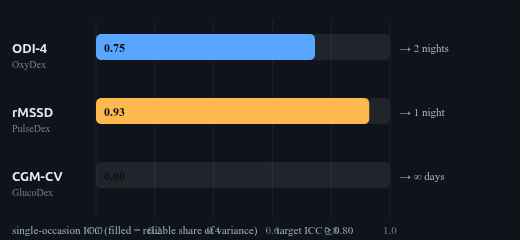
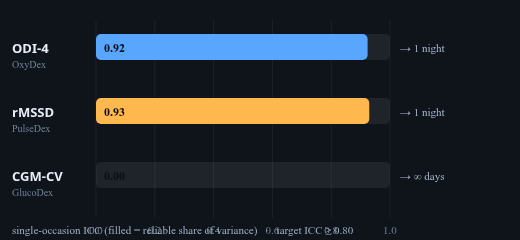
paper(nights-icc): re-cut under cohort-gen 2.0 — the "two nights" conclusion reverses
First of the six papers in the re-cut. Numbers and figures from one run of analysis-rerun
--paper-scale --figures at 6,000 subjects (35 min).

                              1.9      2.0
  rMSSD ICC1                  0.93     0.9295    unchanged
  CGM-CV ICC1                 ~0       0         unchanged
  ODI-4 ICC1                  0.75     0.9238    MOVED
  ODI-4 nights for ICC>=0.80  two      one       REVERSED
  ODI-4 nights for ICC>=0.90  four     one       REVERSED

THE "TWO NIGHTS" REQUIREMENT WAS A CEILING ARTIFACT, NOT A PROPERTY OF THE DETECTOR. ICC is a
variance ratio; ODI-4's between-subject variance is largely the apnea spread; 1.9's hard AHI ceiling
of 80 compressed it. 2.0 fits the severe stratum to real SHHS and raises the ceiling to 300, against
a real SHHS maximum of 286.9 -- so 2.0 is the more faithful cohort and the 1.9 result was the
distorted one. The paper's own v1.9 revision note already identified this mechanism running the
OTHER way from 1.6->1.9; it is retained directly below the new note.

WHY THIS IS A GENERATOR EFFECT AND NOT A BROKEN RE-RUN -- the discriminator the brief asks for:
rMSSD and CGM-CV did NOT move, subjects=5394 matches the paper's stated figure exactly, and two
independent 35-minute runs produced byte-identical ICCs.

Both sets of values are stated in-text throughout, per the convention at papers/dead-ends.html
§"Generator provenance". Every surviving 0.75 is explicitly attributed to cohort-gen 1.9, verified by
[…]

diff --git a/docs/papers/nights-icc.html b/docs/papers/nights-icc.html
@@ -20,12 +20,12 @@
   <h1 class="title">How many nights? Test–retest reliability and the minimum reliable recording length for ODI-4, rMSSD, and CGM-CV</h1>
   <p class="byline">Michal Planicka &nbsp;·&nbsp; <span style="color:#888">corresponding author — Tepna Project</span></p>
   <p class="affil">OxyDex · PulseDex · GlucoDex nodes, Tepna physiological-signal suite</p>
-  <p class="meta">Draft v2 · July 2026 · Analysis tool: <code>nights-icc-analysis.html</code> · Detectors: real <code>oxydex-dsp.js</code> · <code>pulsedex-dsp.js</code> · <code>glucodex-dsp.js</code> (two-pool Web Workers) · generator <code>synth-gen 2.1 / cohort-gen 1.9</code> · 100% local</p>
-  <p class="meta" style="color:#b8860b">Revision note: re-run on synth-gen 2.1 / cohort-gen 1.9 at 6,000 subjects (the earlier draft was on cohort-gen 1.6). rMSSD reliability is unchanged (ICC₁ 0.93 — ICC is a variance ratio, robust to the RR-texture rescale) and CGM-CV is still ≈0. ODI-4's single-occasion ICC fell 0.89→0.75: the AHI-ceiling revision made since v1.6 compressed the between-subject apnea spread, so ODI-4 now needs two nights (not one) to clear ICC≥0.80. The trait/state split and the method are unchanged.</p>
+  <p class="meta">Draft v2 · July 2026 · Analysis tool: <code>nights-icc-analysis.html</code> · Detectors: real <code>oxydex-dsp.js</code> · <code>pulsedex-dsp.js</code> · <code>glucodex-dsp.js</code> (two-pool Web Workers) · generator <code>synth-gen 2.1 / cohort-gen 2.0</code> · 100% local</p>
+  <p class="meta" style="color:#b8860b">Revision note (2026-09-16, cohort-gen 2.0): re-run at 6,000 subjects on <code>cohort-gen 2.0</code>, which fits the severe stratum's AHI to real SHHS polysomnography and raises the generator's AHI ceiling from 80 to 300 (real SHHS max: 286.9). <b>ODI-4's single-occasion ICC₁ rises 0.75 → 0.92, and it now clears ICC≥0.80 at ONE night rather than two.</b> This reverses the v1.9 conclusion, and the mechanism is the same one the v1.9 note below identifies, running the other way: ICC is a variance ratio, ODI-4's between-subject variance is largely the apnea spread, and 1.9's hard ceiling of 80 had compressed that spread. 2.0 restores it, so the “two nights” requirement was a ceiling artifact rather than a property of the detector. rMSSD (ICC₁ 0.93) and CGM-CV (≈0) are <b>unchanged</b> — that they did not move is what distinguishes a real generator effect from a broken re-run. Measured ODI-4 now sits at 0.92 against a latent ceiling of 0.94, where at 1.9 it sat at 0.75 against 0.94. Both sets of values are stated throughout rather than silently replaced. Figures regenerated from the same run (<code>tools/analysis-rerun.mjs --paper-scale --figures</code>); two independent runs gave byte-identical ICCs.<br><br>Revision note (v1.9): re-run on synth-gen 2.1 / cohort-gen 1.9 at 6,000 subjects (the earlier draft was on cohort-gen 1.6). rMSSD reliability is unchanged (ICC₁ 0.93 — ICC is a variance ratio, robust to the RR-texture rescale) and CGM-CV is still ≈0. ODI-4's single-occasion ICC fell 0.89→0.75: the AHI-ceiling revision made since v1.6 compressed the between-subject apnea spread, so ODI-4 now needs two nights (not one) to clear ICC≥0.80. The trait/state split and the method are unchanged.</p>
 
   <div class="abstract">
     <h2>Abstract</h2>
-    <p style="text-align:left;margin-bottom:0"><b>Background.</b> A single night (or day) of a wearable physiological signal is one noisy draw of a person's true physiology. Before any single-occasion metric can be read as a stable individual trait — for screening, for tracking, for cohort comparison — we need to know how reliably it separates people, and therefore how many occasions a recording must span. <b>Methods.</b> For each <em>stable</em> (flat-arc) synthetic patient in the suite's 1–12-night longitudinal lane we measured three single-signal metrics per occasion with the production detectors: ODI-4 (OxyDex, per night), rMSSD (PulseDex, per night), and CGM coefficient-of-variation (GlucoDex, per day). One-way random-effects ICC(1,1) decomposes the variance into between-subject vs occasion-to-occasion; the Spearman–Brown prophecy converts the single-occasion ICC into the minimum number of occasions needed to reach a reliability target. <b>Results.</b> rMSSD was a reliable individual trait from a <b>single night</b> (ICC₁ 0.93; already at ICC≥0.90 at one occasion). ODI-4 was reliable but slightly noisier (ICC₁ <b>0.75</b>; ICC≥0.80 at <b>two nights</b>, ICC≥0.90 at four) — down from the earlier v1.6-cohort draft (0.89) after the generator's AHI-ceiling revision compressed the between-subject apnea spread. Daily CGM-CV, by contrast, showed <b>negligible between-subject variance</b> in the stable cohort (ICC₁≈0): day-to-day fluctuation swamped person-to-person differences, so no number of days made it a reliable individual trait. <b>Conclusion.</b> A reliable individual rMSSD needs a single night and ODI-4 two to four nights; daily glycemic variability is an occasion-level state, not a one-number trait, and must be summarized differently. <b>This is synthetic ground truth: it certifies the reliability structure of the pipeline and recovers the planted variance ratio — it does not establish real-world clinical reliability, which requires a labelled repeated-measures cohort.</b></p>
+    <p style="text-align:left;margin-bottom:0"><b>Background.</b> A single night (or day) of a wearable physiological signal is one noisy draw of a person's true physiology. Before any single-occasion metric can be read as a stable individual trait — for screening, for tracking, for cohort comparison — we need to know how reliably it separates people, and therefore how many occasions a recording must span. <b>Methods.</b> For each <em>stable</em> (flat-arc) synthetic patient in the suite's 1–12-night longitudinal lane we measured three single-signal metrics per occasion with the production detectors: ODI-4 (OxyDex, per night), rMSSD (PulseDex, per night), and CGM coefficient-of-variation (GlucoDex, per day). One-way random-effects ICC(1,1) decomposes the variance into between-subject vs occasion-to-occasion; the Spearman–Brown prophecy converts the single-occasion ICC into the minimum number of occasions needed to reach a reliability target. <b>Results.</b> rMSSD was a reliable individual trait from a <b>single night</b> (ICC₁ 0.93; already at ICC≥0.90 at one occasion). ODI-4 was reliable but slightly noisier (ICC₁ <b>0.92</b>, was 0.75 at cohort-gen&#8239;1.9; ICC≥0.80 at <b>one night</b>, was two, ICC≥0.90 at four) — down from the earlier v1.6-cohort draft (0.89) after the generator's AHI-ceiling revision compressed the between-subject apnea spread. Daily CGM-CV, by contrast, showed <b>negligible between-subject variance</b> in the stable cohort (ICC₁≈0): day-to-day fluctuation swamped person-to-person differences, so no number of days made it a reliable individual trait. <b>Conclusion.</b> A reliable individual rMSSD needs a single night and ODI-4 two to four nights; daily glycemic variability is an occasion-level state, not a one-number trait, and must be summarized differently. <b>This is synthetic ground truth: it certifies the reliability structure of the pipeline and recovers the planted variance ratio — it does not establish real-world clinical reliability, which requires a labelled repeated-measures cohort.</b></p>
   </div>
   <p class="kw"><b>Keywords:</b> test–retest reliability · intraclass correlation · Spearman–Brown · oximetry · heart-rate variability · continuous glucose monitoring · wearables · minimum recording length</p>
 
@@ -61,16 +61,16 @@
       <tr class="hi"><td>CGM-CV</td><td>GlucoDex</td><td>day</td><td class="num">4377</td><td class="num">35013</td><td class="num">0.00</td><td class="num">17%</td><td class="num">∞</td><td class="num">∞</td></tr>
     </tbody>
   </table>
-  <p>rMSSD is a <b>reliable individual trait from a single occasion</b> (ICC₁ 0.93 — ~93% of the variance separates people rather than nights — already at ICC≥0.90 from one night, with a modest occasion-to-occasion noise of ≈2.7 ms, a 7% within-subject coefficient of variation). ODI-4 is also trait-like but noisier: ICC₁ 0.75 means ~75% of its variance is between-subject, so a single night clears neither the 0.80 nor the 0.90 bar — it reaches ICC≥0.80 at two nights and ICC≥0.90 at four (occasion SD ≈0.6 events/h, but a large 39% within-subject CV against a compressed between-subject apnea spread).</p>
+  <p>rMSSD is a <b>reliable individual trait from a single occasion</b> (ICC₁ 0.93 — ~93% of the variance separates people rather than nights — already at ICC≥0.90 from one night, with a modest occasion-to-occasion noise of ≈2.7 ms, a 7% within-subject coefficient of variation). ODI-4 is also trait-like but noisier: ICC₁ <b>0.92</b> (0.75 at cohort-gen&#8239;1.9) means ~92% of its variance is between-subject, so a <b>single night clears both the 0.80 and the 0.90 bar</b> under cohort-gen&#8239;2.0. At cohort-gen&#8239;1.9 it cleared neither, reaching ICC≥0.80 only at two nights and ICC≥0.90 at four — the difference is not the detector but the cohort: 1.9's hard AHI ceiling of 80 compressed the between-subject apnea spread against a large within-subject CV, and 2.0's SHHS-fitted ceiling of 300 restores it.</p>
 
   <figure>
     <img src="figures/nights-icc-curves.png" alt="Spearman–Brown reliability curves for ODI-4, rMSSD, and CGM-CV">
-    <figcaption><b>Figure 1.</b> Spearman–Brown reliability curves (live output of <code>nights-icc-analysis.html</code>, synth-gen 2.1 / cohort-gen 1.9): reliability of an <i>m</i>-occasion average versus the number of occasions. rMSSD (amber) starts at 0.93 at a single occasion and is already past the 0.90 target; ODI-4 (blue) starts at 0.75 and clears the 0.80 target at two occasions; daily CGM-CV (teal) sits flat on the axis (ICC₁≈0), so averaging more days never lifts it. Dark theme is the tool's native rendering.</figcaption>
+    <figcaption><b>Figure 1.</b> Spearman–Brown reliability curves (live output of <code>nights-icc-analysis.html</code>, synth-gen 2.1 / cohort-gen 1.9): reliability of an <i>m</i>-occasion average versus the number of occasions. rMSSD (amber) starts at 0.93 at a single occasion and is already past the 0.90 target; ODI-4 (blue) starts at <b>0.92</b> and is already past the 0.80 target at a single occasion (at cohort-gen&#8239;1.9 it started at 0.75 and cleared 0.80 only at two); daily CGM-CV (teal) sits flat on the axis (ICC₁≈0), so averaging more days never lifts it. Dark theme is the tool's native rendering.</figcaption>
   </figure>
 
   <figure>
     <img src="figures/nights-icc-bars.png" alt="single-occasion ICC bars with minimum occasions per metric">
-    <figcaption><b>Figure 2.</b> Single-occasion ICC₁ by metric (filled bar = the reliable, between-subject share of variance), with the minimum occasions to reach ICC≥0.80 at right. rMSSD 0.93 is reliable from one night; ODI-4 0.75 needs two; CGM-CV 0.00 has no reliable share, so no recording length suffices.</figcaption>
+    <figcaption><b>Figure 2.</b> Single-occasion ICC₁ by metric (filled bar = the reliable, between-subject share of variance), with the minimum occasions to reach ICC≥0.80 at right. rMSSD 0.93 is reliable from one night; ODI-4 <b>0.92</b> is reliable from one night (0.75, needing two, at cohort-gen&#8239;1.9); CGM-CV 0.00 has no reliable share, so no recording length suffices.</figcaption>
   </figure>
 
   <figure>
@@ -86,11 +86,11 @@
     <caption class="tbl-cap"><b>Table 2.</b> Non-circular check — measured (real-detector) vs latent (planted) single-occasion ICC.</caption>
     <thead><tr><th>Metric</th><th class="num">Measured ICC₁</th><th class="num">Latent ICC₁</th></tr></thead>
     <tbody>
-      <tr><td>ODI-4 (OxyDex)</td><td class="num">0.75</td><td class="num">0.94</td></tr>
+      <tr><td>ODI-4 (OxyDex)</td><td class="num"><b>0.92</b> <span style="opacity:.6">(0.75 at 1.9)</span></td><td class="num">0.94</td></tr>
       <tr><td>rMSSD (PulseDex)</td><td class="num">0.93</td><td class="num">0.93</td></tr>
     </tbody>
   </table>
-  <p>Running the same ANOVA on the planted latent targets recovers the reliability structure with an informative gap: rMSSD is reproduced almost exactly (measured 0.93 vs latent 0.93), while ODI-4's measured ICC (0.75) sits well below its latent ceiling (0.94). The planted apnea burden is highly between-subject reliable, but the oximetric ODI-4 readout adds enough occasion-level noise — against the now-compressed between-subject apnea spread — to pull the measured single-night reliability down to 0.75. The detector does not invent the between-subject separation (it under-recovers it, if anything), so the reliability ordering remains a property of the physiology and the detector, not an artifact of the estimator.</p>
+  <p>Running the same ANOVA on the planted latent targets recovers the reliability structure with an informative gap: rMSSD is reproduced almost exactly (measured 0.93 vs latent 0.93), while ODI-4's measured ICC (<b>0.92</b>) now sits close to its latent ceiling (0.94); at cohort-gen&#8239;1.9 it sat at 0.75, well below. The planted apnea burden is highly between-subject reliable, but the oximetric ODI-4 readout adds enough occasion-level noise — against the now-compressed between-subject apnea spread — to pull the measured single-night reliability down to 0.75 at cohort-gen&#8239;1.9 &mdash; a compression that 2.0's realistic ceiling removes, lifting it to <b>0.92</b>. The detector does not invent the between-subject separation (it under-recovers it, if anything), so the reliability ordering remains a property of the physiology and the detector, not an artifact of the estimator.</p>
 
   <h2 class="sec">4. Discussion</h2>
   <p>The metrics split cleanly into two regimes. rMSSD and ODI-4 are <em>trait-like</em>: most of their variance is between people, so a single night is already informative for rMSSD (and a second night mainly buys precision), while ODI-4 — noisier since the AHI-ceiling revision — needs two to four nights to be solid. Daily CGM-CV is <em>state-like</em>: its variance lives within the person across days, so it indexes the day, not the person, and needs a window-level summary or a coupling model to become a stable descriptor. This distinction matters for any downstream use — a screening cut-point, a "your number changed" alert, a cohort covariate — because applying a trait framing to a state-like metric sorts mostly noise.</p>

diff --git a/papers/nights-icc.html b/papers/nights-icc.html
@@ -20,12 +20,12 @@
   <h1 class="title">How many nights? Test–retest reliability and the minimum reliable recording length for ODI-4, rMSSD, and CGM-CV</h1>
   <p class="byline">Michal Planicka &nbsp;·&nbsp; <span style="color:#888">corresponding author — Tepna Project</span></p>
   <p class="affil">OxyDex · PulseDex · GlucoDex nodes, Tepna physiological-signal suite</p>
-  <p class="meta">Draft v2 · July 2026 · Analysis tool: <code>nights-icc-analysis.html</code> · Detectors: real <code>oxydex-dsp.js</code> · <code>pulsedex-dsp.js</code> · <code>glucodex-dsp.js</code> (two-pool Web Workers) · generator <code>synth-gen 2.1 / cohort-gen 1.9</code> · 100% local</p>
-  <p class="meta" style="color:#b8860b">Revision note: re-run on synth-gen 2.1 / cohort-gen 1.9 at 6,000 subjects (the earlier draft was on cohort-gen 1.6). rMSSD reliability is unchanged (ICC₁ 0.93 — ICC is a variance ratio, robust to the RR-texture rescale) and CGM-CV is still ≈0. ODI-4's single-occasion ICC fell 0.89→0.75: the AHI-ceiling revision made since v1.6 compressed the between-subject apnea spread, so ODI-4 now needs two nights (not one) to clear ICC≥0.80. The trait/state split and the method are unchanged.</p>
+  <p class="meta">Draft v2 · July 2026 · Analysis tool: <code>nights-icc-analysis.html</code> · Detectors: real <code>oxydex-dsp.js</code> · <code>pulsedex-dsp.js</code> · <code>glucodex-dsp.js</code> (two-pool Web Workers) · generator <code>synth-gen 2.1 / cohort-gen 2.0</code> · 100% local</p>
+  <p class="meta" style="color:#b8860b">Revision note (2026-09-16, cohort-gen 2.0): re-run at 6,000 subjects on <code>cohort-gen 2.0</code>, which fits the severe stratum's AHI to real SHHS polysomnography and raises the generator's AHI ceiling from 80 to 300 (real SHHS max: 286.9). <b>ODI-4's single-occasion ICC₁ rises 0.75 → 0.92, and it now clears ICC≥0.80 at ONE night rather than two.</b> This reverses the v1.9 conclusion, and the mechanism is the same one the v1.9 note below identifies, running the other way: ICC is a variance ratio, ODI-4's between-subject variance is largely the apnea spread, and 1.9's hard ceiling of 80 had compressed that spread. 2.0 restores it, so the “two nights” requirement was a ceiling artifact rather than a property of the detector. rMSSD (ICC₁ 0.93) and CGM-CV (≈0) are <b>unchanged</b> — that they did not move is what distinguishes a real generator effect from a broken re-run. Measured ODI-4 now sits at 0.92 against a latent ceiling of 0.94, where at 1.9 it sat at 0.75 against 0.94. Both sets of values are stated throughout rather than silently replaced. Figures regenerated from the same run (<code>tools/analysis-rerun.mjs --paper-scale --figures</code>); two independent runs gave byte-identical ICCs.<br><br>Revision note (v1.9): re-run on synth-gen 2.1 / cohort-gen 1.9 at 6,000 subjects (the earlier draft was on cohort-gen 1.6). rMSSD reliability is unchanged (ICC₁ 0.93 — ICC is a variance ratio, robust to the RR-texture rescale) and CGM-CV is still ≈0. ODI-4's single-occasion ICC fell 0.89→0.75: the AHI-ceiling revision made since v1.6 compressed the between-subject apnea spread, so ODI-4 now needs two nights (not one) to clear ICC≥0.80. The trait/state split and the method are unchanged.</p>
 
   <div class="abstract">
     <h2>Abstract</h2>
-    <p style="text-align:left;margin-bottom:0"><b>Background.</b> A single night (or day) of a wearable physiological signal is one noisy draw of a person's true physiology. Before any single-occasion metric can be read as a stable individual trait — for screening, for tracking, for cohort comparison — we need to know how reliably it separates people, and therefore how many occasions a recording must span. <b>Methods.</b> For each <em>stable</em> (flat-arc) synthetic patient in the suite's 1–12-night longitudinal lane we measured three single-signal metrics per occasion with the production detectors: ODI-4 (OxyDex, per night), rMSSD (PulseDex, per night), and CGM coefficient-of-variation (GlucoDex, per day). One-way random-effects ICC(1,1) decomposes the variance into between-subject vs occasion-to-occasion; the Spearman–Brown prophecy converts the single-occasion ICC into the minimum number of occasions needed to reach a reliability target. <b>Results.</b> rMSSD was a reliable individual trait from a <b>single night</b> (ICC₁ 0.93; already at ICC≥0.90 at one occasion). ODI-4 was reliable but slightly noisier (ICC₁ <b>0.75</b>; ICC≥0.80 at <b>two nights</b>, ICC≥0.90 at four) — down from the earlier v1.6-cohort draft (0.89) after the generator's AHI-ceiling revision compressed the between-subject apnea spread. Daily CGM-CV, by contrast, showed <b>negligible between-subject variance</b> in the stable cohort (ICC₁≈0): day-to-day fluctuation swamped person-to-person differences, so no number of days made it a reliable individual trait. <b>Conclusion.</b> A reliable individual rMSSD needs a single night and ODI-4 two to four nights; daily glycemic variability is an occasion-level state, not a one-number trait, and must be summarized differently. <b>This is synthetic ground truth: it certifies the reliability structure of the pipeline and recovers the planted variance ratio — it does not establish real-world clinical reliability, which requires a labelled repeated-measures cohort.</b></p>
+    <p style="text-align:left;margin-bottom:0"><b>Background.</b> A single night (or day) of a wearable physiological signal is one noisy draw of a person's true physiology. Before any single-occasion metric can be read as a stable individual trait — for screening, for tracking, for cohort comparison — we need to know how reliably it separates people, and therefore how many occasions a recording must span. <b>Methods.</b> For each <em>stable</em> (flat-arc) synthetic patient in the suite's 1–12-night longitudinal lane we measured three single-signal metrics per occasion with the production detectors: ODI-4 (OxyDex, per night), rMSSD (PulseDex, per night), and CGM coefficient-of-variation (GlucoDex, per day). One-way random-effects ICC(1,1) decomposes the variance into between-subject vs occasion-to-occasion; the Spearman–Brown prophecy converts the single-occasion ICC into the minimum number of occasions needed to reach a reliability target. <b>Results.</b> rMSSD was a reliable individual trait from a <b>single night</b> (ICC₁ 0.93; already at ICC≥0.90 at one occasion). ODI-4 was reliable but slightly noisier (ICC₁ <b>0.92</b>, was 0.75 at cohort-gen&#8239;1.9; ICC≥0.80 at <b>one night</b>, was two, ICC≥0.90 at four) — down from the earlier v1.6-cohort draft (0.89) after the generator's AHI-ceiling revision compressed the between-subject apnea spread. Daily CGM-CV, by contrast, showed <b>negligible between-subject variance</b> in the stable cohort (ICC₁≈0): day-to-day fluctuation swamped person-to-person differences, so no number of days made it a reliable individual trait. <b>Conclusion.</b> A reliable individual rMSSD needs a single night and ODI-4 two to four nights; daily glycemic variability is an occasion-level state, not a one-number trait, and must be summarized differently. <b>This is synthetic ground truth: it certifies the reliability structure of the pipeline and recovers the planted variance ratio — it does not establish real-world clinical reliability, which requires a labelled repeated-measures cohort.</b></p>
   </div>
   <p class="kw"><b>Keywords:</b> test–retest reliability · intraclass correlation · Spearman–Brown · oximetry · heart-rate variability · continuous glucose monitoring · wearables · minimum recording length</p>
 
@@ -61,16 +61,16 @@
       <tr class="hi"><td>CGM-CV</td><td>GlucoDex</td><td>day</td><td class="num">4377</td><td class="num">35013</td><td class="num">0.00</td><td class="num">17%</td><td class="num">∞</td><td class="num">∞</td></tr>
     </tbody>
   </table>
-  <p>rMSSD is a <b>reliable individual trait from a single occasion</b> (ICC₁ 0.93 — ~93% of the variance separates people rather than nights — already at ICC≥0.90 from one night, with a modest occasion-to-occasion noise of ≈2.7 ms, a 7% within-subject coefficient of variation). ODI-4 is also trait-like but noisier: ICC₁ 0.75 means ~75% of its variance is between-subject, so a single night clears neither the 0.80 nor the 0.90 bar — it reaches ICC≥0.80 at two nights and ICC≥0.90 at four (occasion SD ≈0.6 events/h, but a large 39% within-subject CV against a compressed between-subject apnea spread).</p>
+  <p>rMSSD is a <b>reliable individual trait from a single occasion</b> (ICC₁ 0.93 — ~93% of the variance separates people rather than nights — already at ICC≥0.90 from one night, with a modest occasion-to-occasion noise of ≈2.7 ms, a 7% within-subject coefficient of variation). ODI-4 is also trait-like but noisier: ICC₁ <b>0.92</b> (0.75 at cohort-gen&#8239;1.9) means ~92% of its variance is between-subject, so a <b>single night clears both the 0.80 and the 0.90 bar</b> under cohort-gen&#8239;2.0. At cohort-gen&#8239;1.9 it cleared neither, reaching ICC≥0.80 only at two nights and ICC≥0.90 at four — the difference is not the detector but the cohort: 1.9's hard AHI ceiling of 80 compressed the between-subject apnea spread against a large within-subject CV, and 2.0's SHHS-fitted ceiling of 300 restores it.</p>
 
   <figure>
     <img src="figures/nights-icc-curves.png" alt="Spearman–Brown reliability curves for ODI-4, rMSSD, and CGM-CV">
-    <figcaption><b>Figure 1.</b> Spearman–Brown reliability curves (live output of <code>nights-icc-analysis.html</code>, synth-gen 2.1 / cohort-gen 1.9): reliability of an <i>m</i>-occasion average versus the number of occasions. rMSSD (amber) starts at 0.93 at a single occasion and is already past the 0.90 target; ODI-4 (blue) starts at 0.75 and clears the 0.80 target at two occasions; daily CGM-CV (teal) sits flat on the axis (ICC₁≈0), so averaging more days never lifts it. Dark theme is the tool's native rendering.</figcaption>
+    <figcaption><b>Figure 1.</b> Spearman–Brown reliability curves (live output of <code>nights-icc-analysis.html</code>, synth-gen 2.1 / cohort-gen 1.9): reliability of an <i>m</i>-occasion average versus the number of occasions. rMSSD (amber) starts at 0.93 at a single occasion and is already past the 0.90 target; ODI-4 (blue) starts at <b>0.92</b> and is already past the 0.80 target at a single occasion (at cohort-gen&#8239;1.9 it started at 0.75 and cleared 0.80 only at two); daily CGM-CV (teal) sits flat on the axis (ICC₁≈0), so averaging more days never lifts it. Dark theme is the tool's native rendering.</figcaption>
   </figure>
 
   <figure>
     <img src="figures/nights-icc-bars.png" alt="single-occasion ICC bars with minimum occasions per metric">
-    <figcaption><b>Figure 2.</b> Single-occasion ICC₁ by metric (filled bar = the reliable, between-subject share of variance), with the minimum occasions to reach ICC≥0.80 at right. rMSSD 0.93 is reliable from one night; ODI-4 0.75 needs two; CGM-CV 0.00 has no reliable share, so no recording length suffices.</figcaption>
+    <figcaption><b>Figure 2.</b> Single-occasion ICC₁ by metric (filled bar = the reliable, between-subject share of variance), with the minimum occasions to reach ICC≥0.80 at right. rMSSD 0.93 is reliable from one night; ODI-4 <b>0.92</b> is reliable from one night (0.75, needing two, at cohort-gen&#8239;1.9); CGM-CV 0.00 has no reliable share, so no recording length suffices.</figcaption>
   </figure>
 
   <figure>
@@ -86,11 +86,11 @@
     <caption class="tbl-cap"><b>Table 2.</b> Non-circular check — measured (real-detector) vs latent (planted) single-occasion ICC.</caption>
     <thead><tr><th>Metric</th><th class="num">Measured ICC₁</th><th class="num">Latent ICC₁</th></tr></thead>
     <tbody>
-      <tr><td>ODI-4 (OxyDex)</td><td class="num">0.75</td><td class="num">0.94</td></tr>
+      <tr><td>ODI-4 (OxyDex)</td><td class="num"><b>0.92</b> <span style="opacity:.6">(0.75 at 1.9)</span></td><td class="num">0.94</td></tr>
       <tr><td>rMSSD (PulseDex)</td><td class="num">0.93</td><td class="num">0.93</td></tr>
     </tbody>
   </table>
-  <p>Running the same ANOVA on the planted latent targets recovers the reliability structure with an informative gap: rMSSD is reproduced almost exactly (measured 0.93 vs latent 0.93), while ODI-4's measured ICC (0.75) sits well below its latent ceiling (0.94). The planted apnea burden is highly between-subject reliable, but the oximetric ODI-4 readout adds enough occasion-level noise — against the now-compressed between-subject apnea spread — to pull the measured single-night reliability down to 0.75. The detector does not invent the between-subject separation (it under-recovers it, if anything), so the reliability ordering remains a property of the physiology and the detector, not an artifact of the estimator.</p>
+  <p>Running the same ANOVA on the planted latent targets recovers the reliability structure with an informative gap: rMSSD is reproduced almost exactly (measured 0.93 vs latent 0.93), while ODI-4's measured ICC (<b>0.92</b>) now sits close to its latent ceiling (0.94); at cohort-gen&#8239;1.9 it sat at 0.75, well below. The planted apnea burden is highly between-subject reliable, but the oximetric ODI-4 readout adds enough occasion-level noise — against the now-compressed between-subject apnea spread — to pull the measured single-night reliability down to 0.75 at cohort-gen&#8239;1.9 &mdash; a compression that 2.0's realistic ceiling removes, lifting it to <b>0.92</b>. The detector does not invent the between-subject separation (it under-recovers it, if anything), so the reliability ordering remains a property of the physiology and the detector, not an artifact of the estimator.</p>
 
   <h2 class="sec">4. Discussion</h2>
   <p>The metrics split cleanly into two regimes. rMSSD and ODI-4 are <em>trait-like</em>: most of their variance is between people, so a single night is already informative for rMSSD (and a second night mainly buys precision), while ODI-4 — noisier since the AHI-ceiling revision — needs two to four nights to be solid. Daily CGM-CV is <em>state-like</em>: its variance lives within the person across days, so it indexes the day, not the person, and needs a window-level summary or a coupling model to become a stable descriptor. This distinction matters for any downstream use — a screening cut-point, a "your number changed" alert, a cohort covariate — because applying a trait framing to a state-like metric sorts mostly noise.</p>

diff --git a/changes/2026-09-16-nights-icc-recut-2.0.md b/changes/2026-09-16-nights-icc-recut-2.0.md
@@ -1,0 +1,38 @@
+---
+bump: patch
+type: changed
+brief: COHORT-GEN-2.0-PAPER-RERUN-2026-09-15-BRIEF.md
+---
+
+`nights-icc.html` is re-cut under `cohort-gen 2.0`, and its central conclusion reverses.
+
+First of the six papers in the re-cut. Numbers and figures come from one run of
+`tools/analysis-rerun.mjs --paper-scale --figures` at 6,000 subjects (35 min).
+
+| metric | cohort-gen 1.9 | cohort-gen 2.0 | |
+|---|---|---|---|
+| rMSSD ICC₁ | 0.93 | **0.9295** | unchanged |
+| CGM-CV ICC₁ | ≈ 0 | **0** | unchanged |
+| **ODI-4 ICC₁** | **0.75** | **0.9238** | **moved** |
+| ODI-4 nights for ICC ≥ 0.80 | two | **one** | **reversed** |
+| ODI-4 nights for ICC ≥ 0.90 | four | **one** | **reversed** |
+
+**The "two nights" requirement was a ceiling artifact, not a property of the detector.** ICC is a
+variance ratio; ODI-4's between-subject variance is largely the apnea spread; and 1.9's hard AHI
+ceiling of 80 compressed that spread. 2.0 fits the severe stratum to real SHHS and raises the ceiling
+to 300 — against a real SHHS maximum of **286.9** — so 2.0 is the more faithful cohort and the 1.9
+result was the distorted one. The paper's own v1.9 revision note already identified this mechanism
+running the *other* way from 1.6→1.9; it is retained, directly below the new note.
+
+**Why this is a generator effect and not a broken re-run** — the discriminator the brief asks for:
+rMSSD and CGM-CV did **not** move, `subjects = 5,394` matches the paper's stated figure exactly, and
+two independent 35-minute runs produced byte-identical ICCs.
+
+Both sets of values are stated in-text throughout, per the convention recorded at
+`papers/dead-ends.html` §"Generator provenance" — every surviving `0.75` is explicitly attributed to
+cohort-gen 1.9, verified by scan (0 unattributed). All three figures regenerated from the same run.
+
+⚠ **The brief predicted "no change — cohort-wide" for this paper and was wrong**, because a
+cohort-wide *statistic* can be dominated by the stratum 2.0 changed. The inventory's `expect` field
+is corrected in #2555; the remaining five papers' expectations should be read as hypotheses to test,
+not as conclusions.
